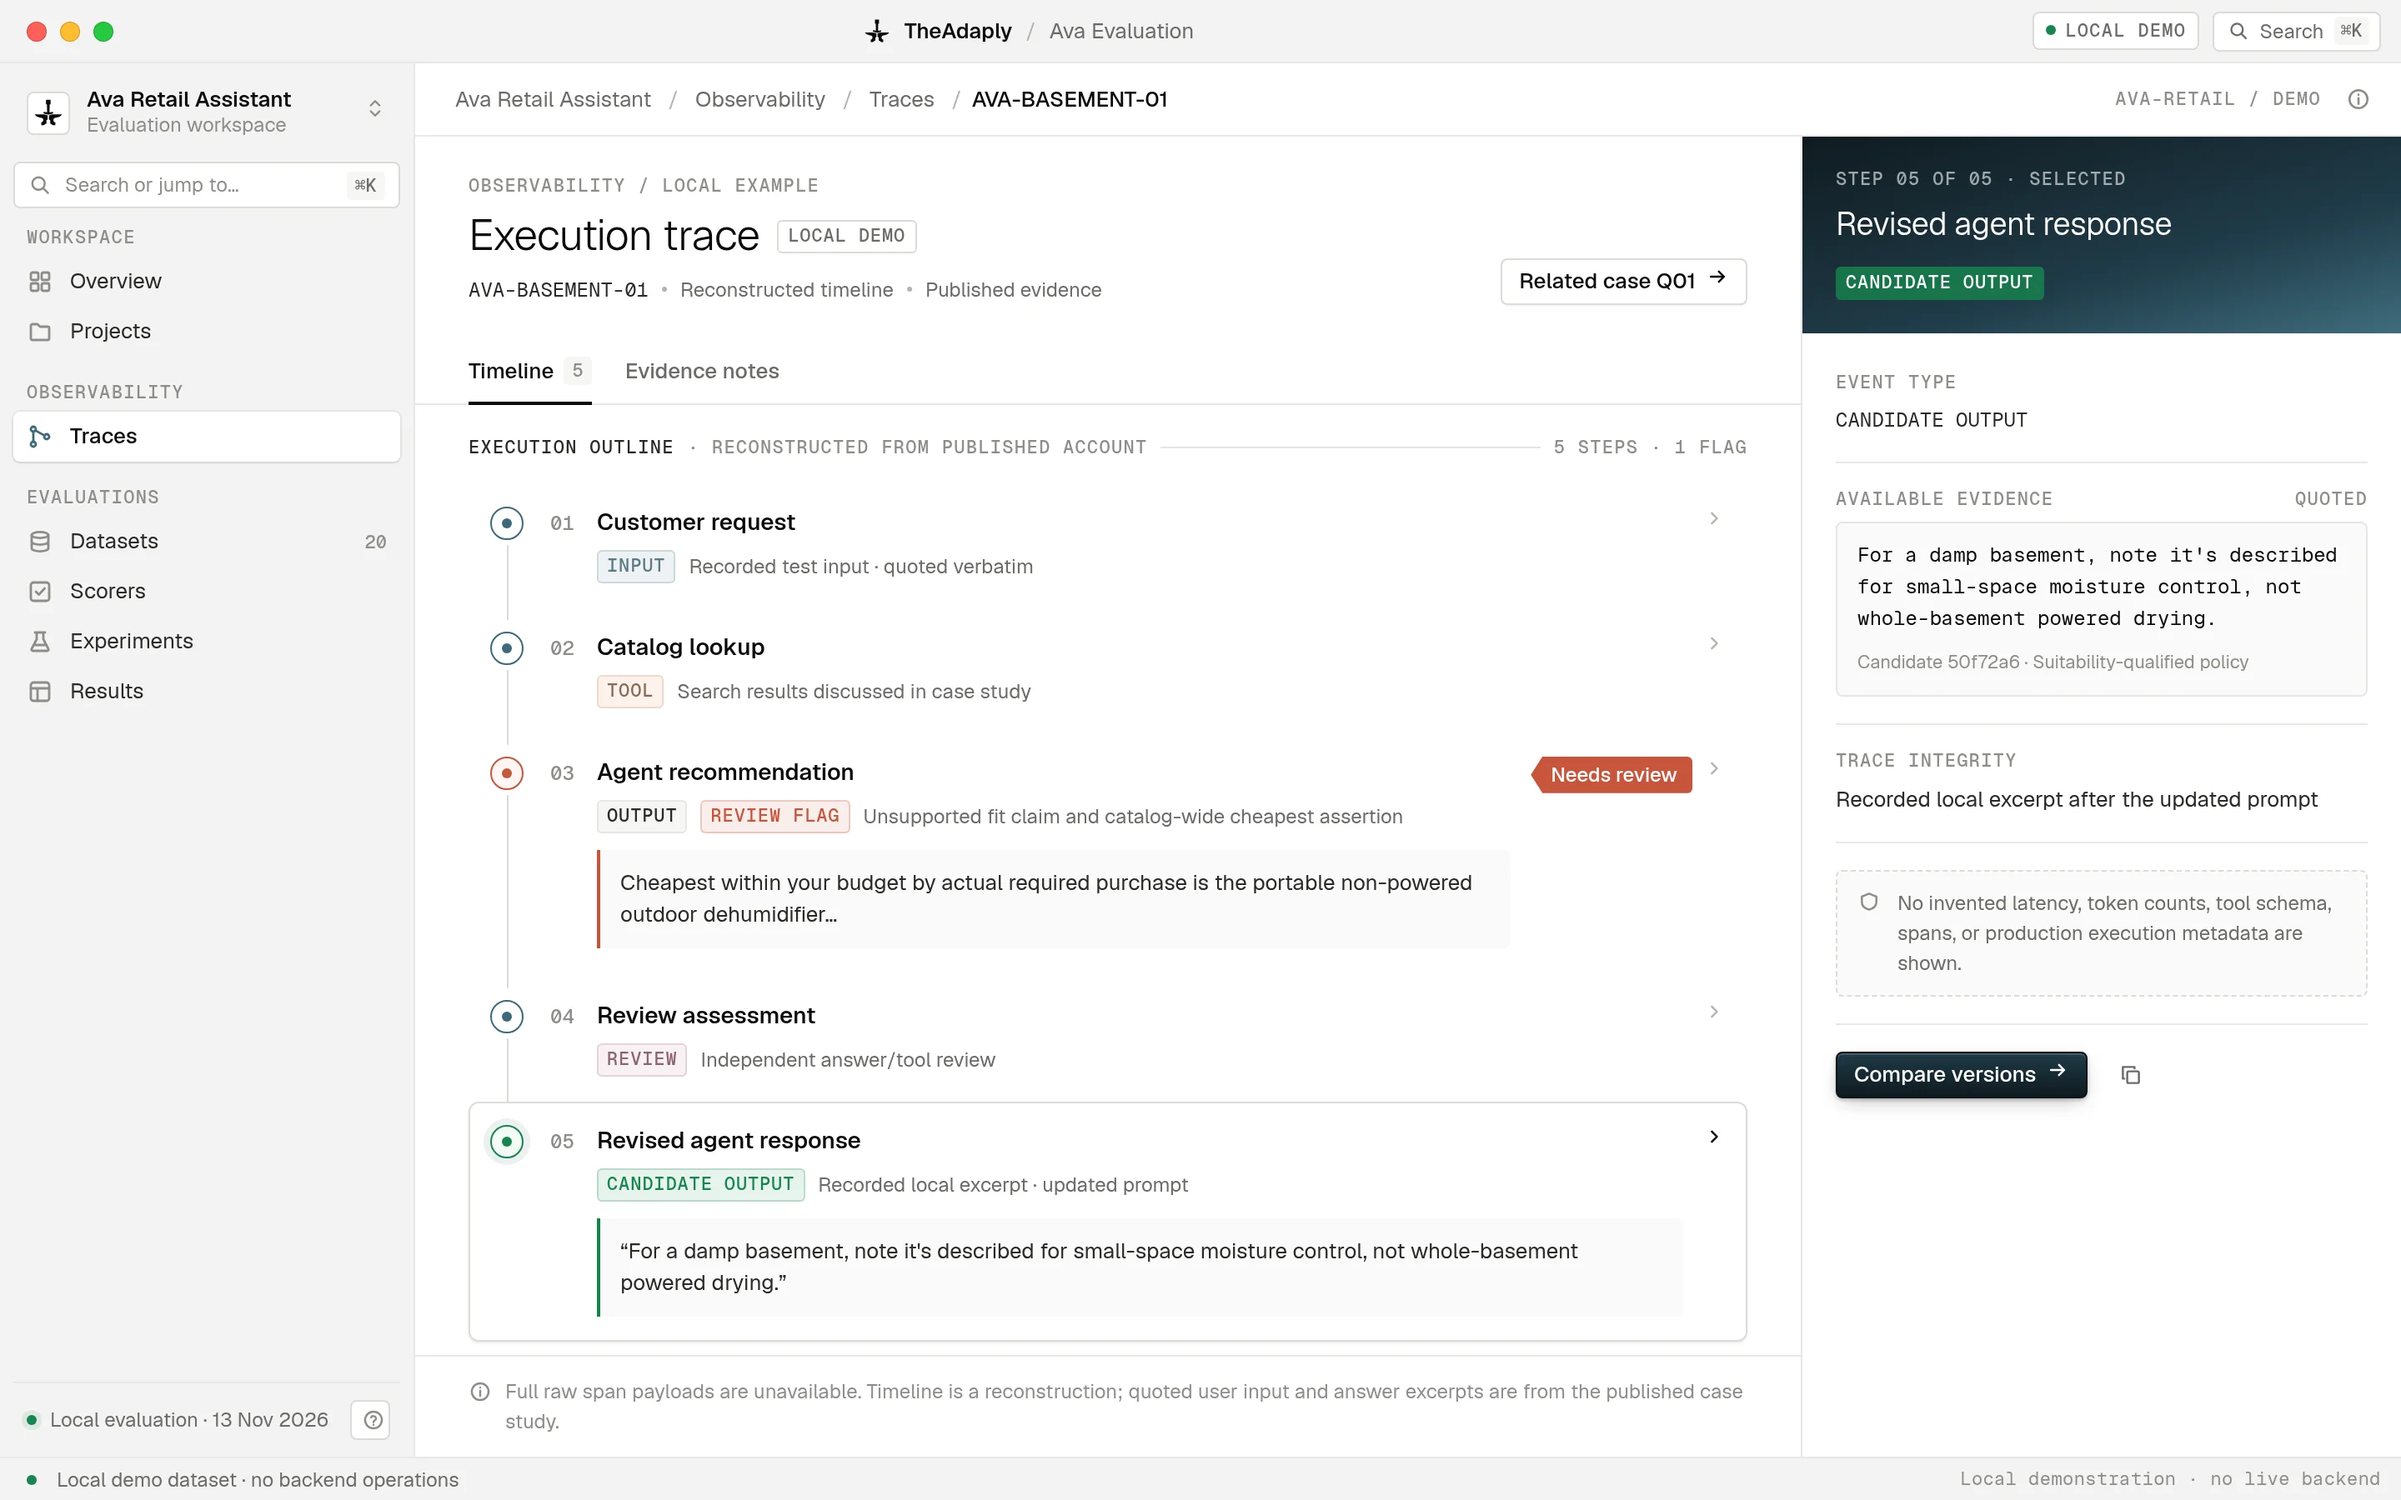
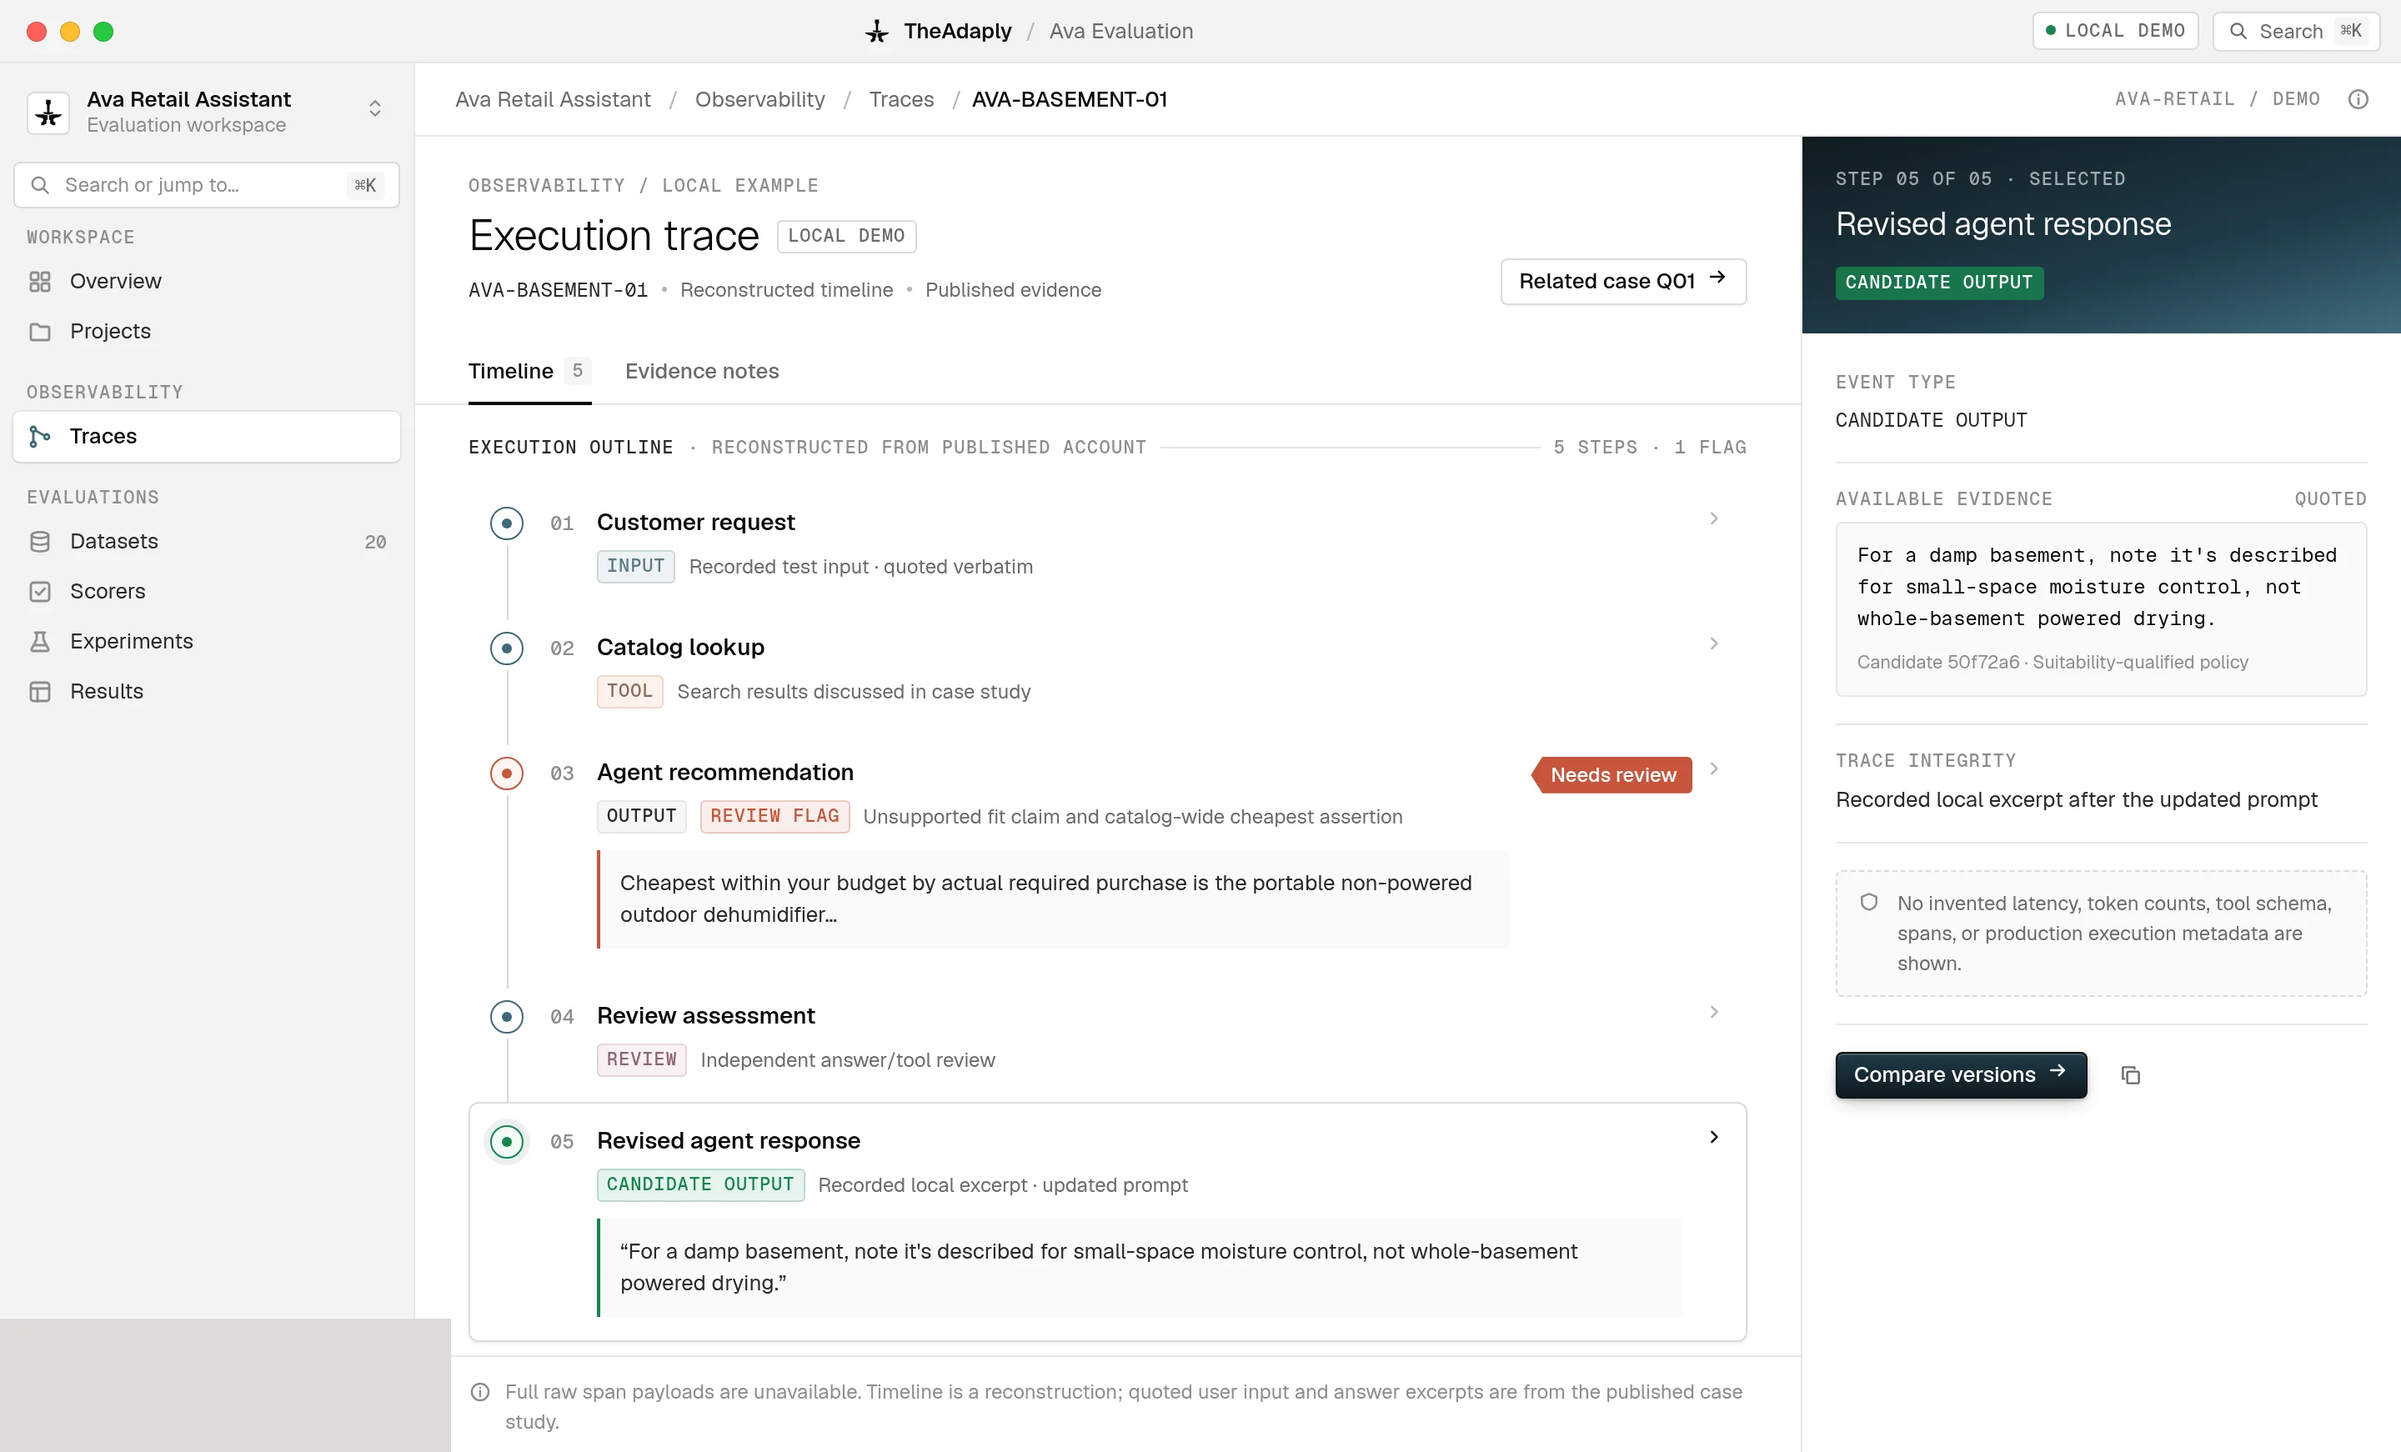
Remove local demo status lines from case study eval screenshots
Crop and inpaint desktop app captures to remove sidebar and footer
status indicators (Local evaluation, Local demo dataset) including
green dots and help control. Drop redundant closing date from index
and align image dimensions. Keep back-to-article link right-aligned.

diff --git a/case_study_evals/index.html b/case_study_evals/index.html
@@ -93,7 +93,7 @@
       <a class="desktop-shot" href="/case_study_evals/images/app-execution-trace.png" target="_blank" rel="noopener" aria-label="Open full screenshot of the execution trace for AVA-BASEMENT-01">
         <picture>
           <source type="image/webp" srcset="/case_study_evals/images/app-execution-trace.webp">
-          <img src="/case_study_evals/images/app-execution-trace.png" width="2880" height="1800" loading="lazy" alt="TheAdaply desktop app execution trace for AVA-BASEMENT-01 with a revised agent response step selected and an earlier step marked needs review.">
+          <img src="/case_study_evals/images/app-execution-trace.png" width="2880" height="1742" loading="lazy" alt="TheAdaply desktop app execution trace for AVA-BASEMENT-01 with a revised agent response step selected and an earlier step marked needs review.">
         </picture>
       </a>
     </figure>
@@ -190,7 +190,7 @@
       <a class="desktop-shot" href="/case_study_evals/images/app-experiment-comparison.png" target="_blank" rel="noopener" aria-label="Open full screenshot of the experiment comparison">
         <picture>
           <source type="image/webp" srcset="/case_study_evals/images/app-experiment-comparison.webp">
-          <img src="/case_study_evals/images/app-experiment-comparison.png" width="2880" height="1800" loading="lazy" alt="TheAdaply desktop app experiment comparison view with baseline and candidate runs and a recorded metrics table.">
+          <img src="/case_study_evals/images/app-experiment-comparison.png" width="2880" height="1742" loading="lazy" alt="TheAdaply desktop app experiment comparison view with baseline and candidate runs and a recorded metrics table.">
         </picture>
       </a>
     </figure>
@@ -245,7 +245,6 @@
   </article>
 
   <div class="closing wrap">
-    <p>13 November 2026</p>
     <a href="#top">Back to article <span aria-hidden="true">↑</span></a>
   </div>
 </main>

diff --git a/case_study_evals/styles.css b/case_study_evals/styles.css
@@ -371,7 +371,7 @@ strong{font-weight:550}
 .case-conclusion .btn{margin-top:22px}
 
 .closing{
-  display:flex;justify-content:space-between;align-items:baseline;gap:24px;
+  display:flex;justify-content:flex-end;align-items:baseline;gap:24px;
   font-size:13px;color:var(--body);
   padding-top:48px;padding-bottom:36px;
 }
